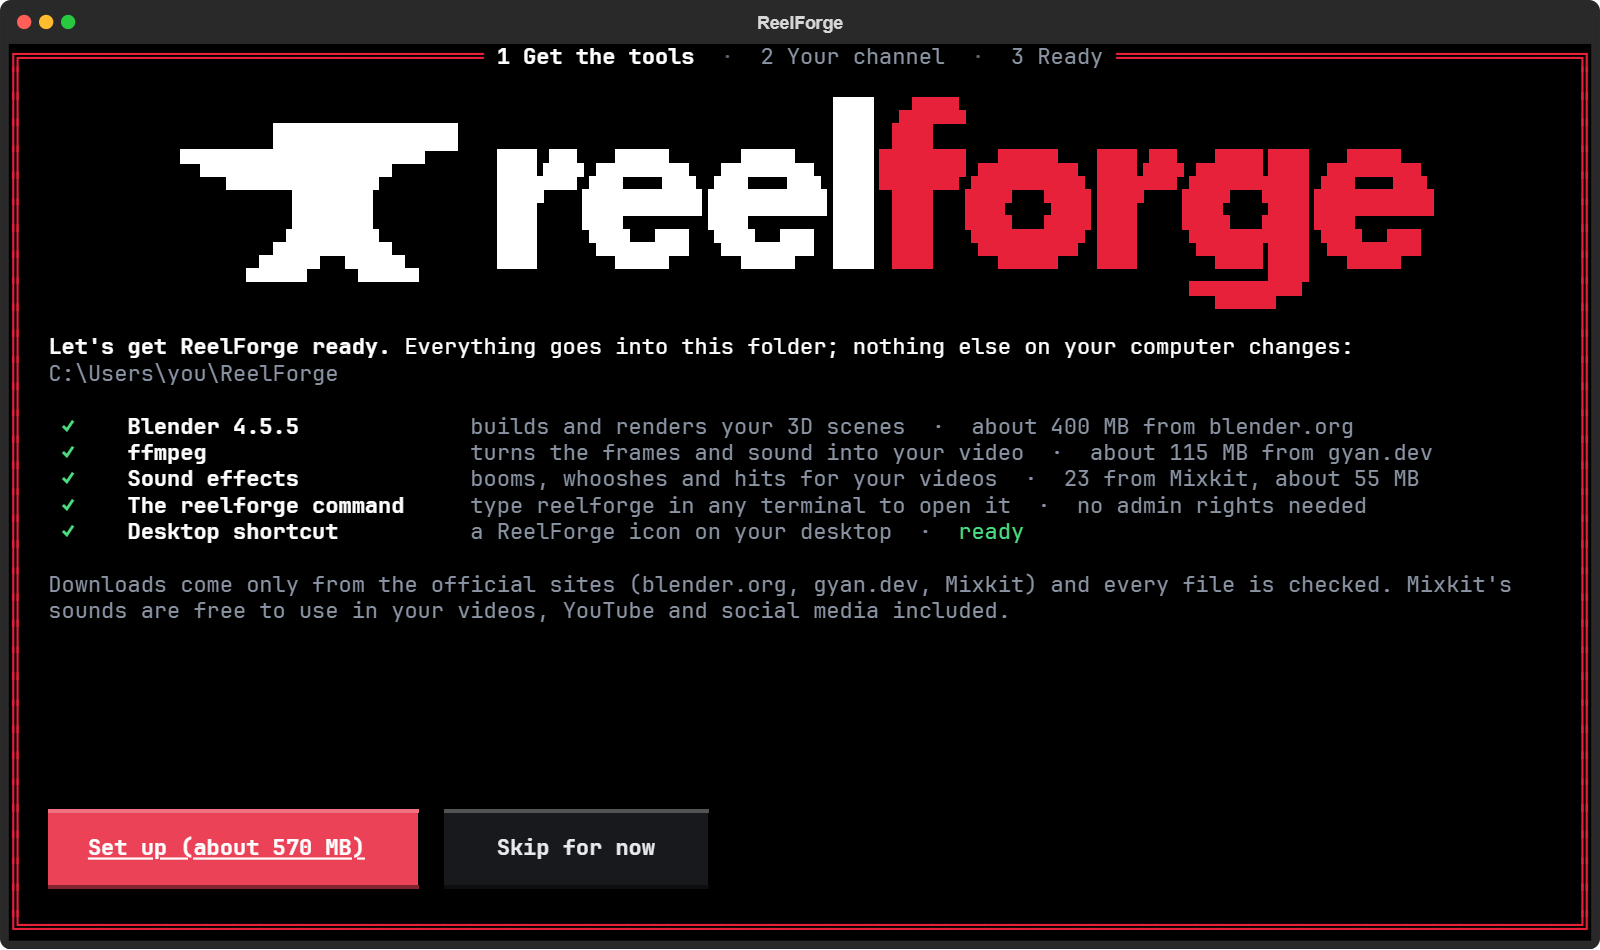
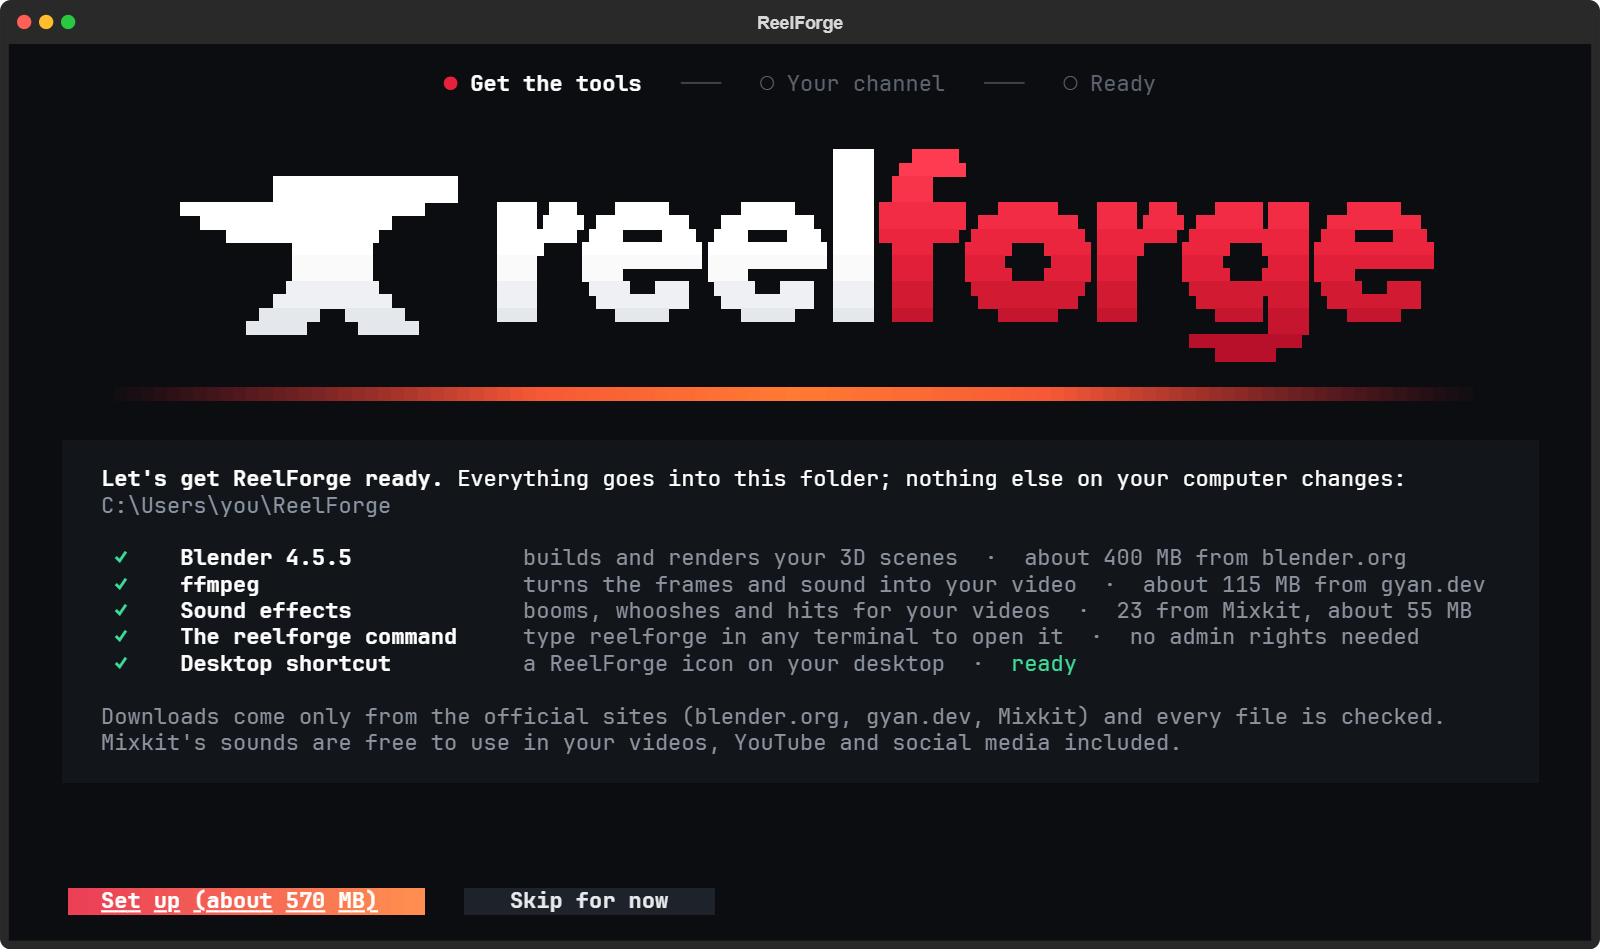
Screenshots retaken in the new look, the docs say how it looks and moves, ? opens the help
Every screenshot is retaken (SOURCES.txt with them). The README and the dashboard guide describe the bell's
unread count, the × beside each notification, the tiles, the status bar at the window's foot and what lights
up when a notification is clicked; ui/README.md gets "How it looks" (the palette, restyle, the motion and
REELFORGE_MOTION=0). ? opens the help from any tab, as the status bar says. Advanced settings' sentence wraps
in its own row, so the choices no longer sit on its second line.

diff --git a/ui/src/dashboard/Profiles.tsx b/ui/src/dashboard/Profiles.tsx
@@ -239,9 +239,12 @@ export function AdvancedSettings({ data, close }: { data: AdvancedData; close: (
       <text attributes={TextAttributes.BOLD} flexShrink={0}>
         Your AI's reasoning
       </text>
-      <text fg={DASH.muted} wrapMode="word" flexShrink={0}>
-        {`How hard your AI thinks on each of ${data.channel}'s videos. High is the standard and suits almost every channel.`}
-      </text>
+      {/* in a row, so the sentence wraps to the dialog's width before the choices are placed under it */}
+      <box flexDirection="row" flexShrink={0} marginBottom={1}>
+        <text fg={DASH.muted} wrapMode="word" flexGrow={1} flexShrink={1}>
+          {`How hard your AI thinks on each of ${data.channel}'s videos. High is the standard and suits almost every channel.`}
+        </text>
+      </box>
       <RadioSet id="adv-reasoning" options={data.options} value={level} autoFocus onChange={setLevel} />
       <box flexDirection="row" justifyContent="flex-end" height={1} marginTop={2} flexShrink={0} gap={1}>
         <Button id="adv-cancel" label="Cancel" onPress={close} />

diff --git a/ui/test/dashboard.test.tsx b/ui/test/dashboard.test.tsx
@@ -124,6 +124,15 @@ describe("keys", () => {
     expect(activeTab(h)).toBe("Compare")
   })
 
+  test("? opens the help, Esc closes it", async () => {
+    const h = await window()
+    await h.t.mockInput.typeText("?")
+    await h.settle(300)
+    expect(frame(h)).toContain("HOW REELFORGE WORKS")
+    await press(h, "escape")
+    expect(frame(h)).not.toContain("HOW REELFORGE WORKS")
+  })
+
   test("Tab moves between buttons, and Enter presses one", async () => {
     const h = await window("updates")
     expect(frame(h)).not.toContain("HOW REELFORGE WORKS")

diff --git a/dashboard/README.md b/dashboard/README.md
@@ -55,7 +55,7 @@ first-time setup said no to background stats is read only while it's open).
 
 You can have ReelForge open in several windows at once, each on its own tab (the Overview in one, Publish in
 another), or each on its own profile. Windows on the same profile share one set of stats: one window reads them at a
-time, with **refreshing …** in every window's top bar meanwhile, and as soon as it's done every window shows the new
+time, with **refreshing …** in every window's status bar meanwhile, and as soon as it's done every window shows the new
 numbers, notifications and errors. The hourly background job's reads show up the same way. **r** in a window while
 another one is reading waits for that read instead of reading everything again. Switching a window to another
 profile lets a read it has under way finish first, in the background, into its own profile.
@@ -68,7 +68,7 @@ next time it starts. A tab you type `reelforge` into is called ReelForge too, bu
 
 | Tab | What's on it |
 |---|---|
-| **1 Overview** | A card per platform (and all of them added up): followers, views, likes, the change over 24 hours and views per hour. Under the cards, today's **badges** (below). Then **views**, **followers** and **likes** gained over time, stacked by platform: each bar is the shortest stretch the window has room for (an hour on 24H when it's wide enough, a few hours or a day on the longer ranges), with yellow ▼ marks where each video went up, your **top performers** (with their views 12 hours in) and how your **latest video** is doing. |
+| **1 Overview** | A tile per platform (and all of them added up): followers in big numbers, views, likes, the change over 24 hours and views per hour (on All platforms, each platform's share). Under the tiles, today's **badges** (below). Then **views**, **followers** and **likes** gained over time, stacked by platform: each bar is the shortest stretch the window has room for (an hour on 24H when it's wide enough, a few hours or a day on the longer ranges), with yellow ▼ marks where each video went up, your **top performers** (with their views 12 hours in) and how your **latest video** is doing. |
 | **2 Videos** | Every video on every platform: views, **views 12 hours in** (so new and old videos compare fairly; "in 5h" until a video is that old, — when the computer was off then), likes, comments, shares, engagement, share rate, views per hour and score. Click a header to sort. Above the chart, the highlighted video's **badges**. **Fix episode** if a post was grouped with the wrong video; **Export CSV** saves everything as a spreadsheet, with when each post went up (date, weekday, hour and UTC time) and its views 1, 6, 12 and 24 hours in. |
 | **3 Compare** | The **platform scoreboard**, or one video side by side on every platform against that platform's typical video. |
 | **4 Publish** | Finished videos, newest first, with the platforms each one is already on. Pick one, check the caption and hashtags (the preview shows exactly what each platform gets), then use the platform buttons. Under the list, the **best time to post** on each platform. |
@@ -82,8 +82,8 @@ sign a video is spreading.
 ## Notifications
 
 The **bell** in the top-right corner opens the drawer on the right; the bell, **Close** or Esc
-closes it. A **red dot** on the bell means something's unread (the drawer says how many); **Mark all read** clears
-it. The big **×** on a notification's right deletes it (Delete does the same for the highlighted one), and **Clear
+closes it. The number on the bell's shoulder is how many are unread; **Mark all read** clears
+it. The **×** beside a notification deletes it (Delete does the same for the highlighted one), and **Clear
 all** deletes every one. Click a notification to see what it's about, from any tab (the drawer stays open, so you
 can go through them):
 
@@ -91,9 +91,9 @@ can go through them):
 |---|---|
 | a video **taking off** (3× your typical one in its first 12 hours), passing 1K, 10K, 100K, 1M … **views**, or moving up to a better **badge** | the **Videos** tab with that platform's videos, the video highlighted (scrolled to if it's far down) and its chart underneath |
 | a **finished video** that's ready to post | the **Publish** tab with that video picked, its caption and hashtags filled in |
-| a platform passing 100, 500, 1K, 5K, 10K, 25K, 50K, 100K … **followers** | that platform's panel on **Accounts**, framed in yellow for a few seconds |
+| a platform passing 100, 500, 1K, 5K, 10K, 25K, 50K, 100K … **followers** | that platform's panel on **Accounts**, lit along its left edge for a few seconds |
 | Instagram or X **logging ReelForge out** | that platform's panel on **Accounts**, with **Log in again** ready to press |
-| **today's badge** on a platform, or your **views across every platform** passing 1K, 10K, 100K, 1M … | that platform's card (or **All platforms**) on the **Overview**, framed in yellow |
+| **today's badge** on a platform, or your **views across every platform** passing 1K, 10K, 100K, 1M … | that platform's tile (or **All platforms**) on the **Overview**, lit along its left edge |
 | a **new version** of ReelForge (once per version), or ReelForge having **updated** | the **Updates** tab, with what's new |
 
 ![A clicked notification about a video: the Videos tab on that platform's videos, with the video highlighted](docs/notification-click.png)
@@ -209,7 +209,7 @@ upload it).
 |---|---|
 | ReelForge says it needs its Python environment | Run setup again (`setup.bat`, or `./setup.sh`). |
 | "ReelForge's window couldn't run" | It says why, and the details are in `dashboard/data/window-log.txt`. `reelforge doctor` checks Bun and the window's packages; `reelforge setup` puts them right. |
-| A platform's name is red in the top bar | The Accounts tab shows the error. TikTok sometimes shows a captcha to a background browser: ReelForge tries again next time. |
+| A platform's name is red in the status bar at the foot of the window | The Accounts tab shows the error. TikTok sometimes shows a captcha to a background browser: ReelForge tries again next time. |
 | Instagram "wants to check it's you" | Press **Log in again** and follow Instagram's steps in the window that opens. |
 | A finished video isn't in the Publish list | Run `reelforge publish-check episodes/<id>` in the ReelForge folder: it says what's missing. |
 | A post is grouped with the wrong video | Videos tab: highlight it and press **Fix episode**. ReelForge keeps your choice. |

diff --git a/ui/README.md b/ui/README.md
@@ -43,18 +43,32 @@ The window finds the kit's Python by itself (`REELFORGE_PYTHON`, else `../.venv`
 | `src/main.tsx` | Starts the renderer and the Python side, mounts the window or the first-run screens, quits cleanly |
 | `src/root.tsx` | The window round the profiles (one per channel): switching starts a Python side on the profile picked (`REELFORGE_PROFILE`) and lets the old one finish; New profile shows the channel's questions inside the window |
 | `src/bridge.ts` | The link to `studio/bridge.py`: calls, replies and views |
-| `src/dashboard/` | The ReelForge window: `App.tsx` (header, bell, tabs, keys), a file per tab, `Drawer.tsx`, `Dialogs.tsx`, `Profiles.tsx` (the profile button and its menu) |
-| `src/setup/` | The first-run screens (`App.tsx`), the channel's questions (`Onboard.tsx`) and the box round them (`Frame.tsx`) |
-| `src/ui/` | The pieces: buttons, tables and lists, charts, fields, panels, dialogs, pop-ups, block art |
+| `src/dashboard/` | The ReelForge window: `App.tsx` (the header with its sliding tab marker, the bell, the status bar, keys), a file per tab, `Drawer.tsx`, `Dialogs.tsx`, `Profiles.tsx` (the profile button and its menu) |
+| `src/setup/` | The first-run screens (`App.tsx`), the channel's questions (`Onboard.tsx`) and the steps and logo above them (`Frame.tsx`) |
+| `src/theme.ts` | The colours, and `restyle`: the Python side's colours mapped to them as its messages arrive |
+| `src/ui/` | The pieces: buttons, tables and lists, charts, fields, panels, dialogs, pop-ups, block art (the big numbers, sparklines, the bell), and `Motion.tsx` (counting up, growing in, sliding, fading) |
 | `src/lib/` | Charts in cells, styled text, fitting parts to a width, number formats, keyboard focus |
 | `test/` | `bun test`: the charts and cards on their own, and the window and first-run screens drawn without a terminal, clicked through on demo data with the real Python side |
 | `scripts/headless.tsx` | The window on OpenTUI's test renderer (the tests and screenshots use it) |
 | `scripts/shots.tsx` | The README's screenshots as SVGs; `scripts/screenshots.py` (in the ReelForge folder) turns them into PNGs |
+
+## How it looks
+
+Calm and dark: panels a step lighter than the window instead of boxes, the app's own chrome in white and greys, so
+the colours that show are the platforms' (TikTok cyan, YouTube red, Instagram purple, X white), green and red for up
+and down, amber for the marks where a video went up, and the forge's red-to-ember gradient on the buttons that do the
+main thing. The Python side's views carry the colours it always has; `restyle` (`src/theme.ts`) puts them in this
+palette, so nothing on that side changes.
+
+Things move, briefly: the numbers on the Overview's tiles count up, the charts grow in (again on a new range), the
+marker under the tabs slides and the tab you open slides in, the drawer slides in from the right, dialogs fade in,
+and pop-ups slide in and fade out. It all runs on OpenTUI's timeline engine, which keeps the renderer drawing only
+while something moves; `REELFORGE_MOTION=0` turns it off.
 
 ## Keys and the mouse
 
 Everything works with either. Tab and Shift+Tab move between buttons, lists and fields in reading order (a dialog
 keeps Tab inside itself); Enter or Space presses a button, the arrows move through a list or table, Enter (or a
 click on the highlighted row) opens it. In the ReelForge window 1-6 switch tabs and r / R refresh, except while a
-text field has the keyboard, and p opens the profile menu; Esc leaves the field, closes a dialog or the drawer. Ctrl+Q
+text field has the keyboard, p opens the profile menu and ? the help; Esc leaves the field, closes a dialog or the drawer. Ctrl+Q
 quits.

diff --git a/README.md b/README.md
@@ -122,9 +122,9 @@ with [OpenTUI](https://github.com/anomalyco/opentui).
 
 Followers, views and likes on each platform you've connected, hour by hour, with a mark where each video went up,
 plus your top videos (with their views 12 hours in) and how the latest one is doing. The bell at the top right
-collects milestones, new videos ready to post and updates, and gets a red dot when there's something new. Click a
+collects milestones, new videos ready to post and updates, and shows how many are new on its shoulder. Click a
 notification to see what it's about: a video that's taking off opens on the Videos tab, highlighted, and a finished
-video is picked out on Publish. The big × on a notification's right deletes it, and Clear all deletes them all.
+video is picked out on Publish. The × beside a notification deletes it, and Clear all deletes them all.
 
 <p align="center">
   <img src="docs/screenshots/app-notifications.png" width="49%" alt="The Overview tab with the notifications open">
@@ -187,7 +187,8 @@ out, say).
 
 ## Updates
 
-When a new version is out, the bell gets a red dot and the **Updates** tab (`reelforge 6`) shows what's new. Click
+When a new version is out, the bell tells you, and the **Updates** tab (`reelforge 6`) gets a red dot and shows
+what's new. Click
 **Update and restart** to install it. Your channel, videos, stats and settings stay as they are, and your AI's
 instructions are refreshed for the new version.
 
